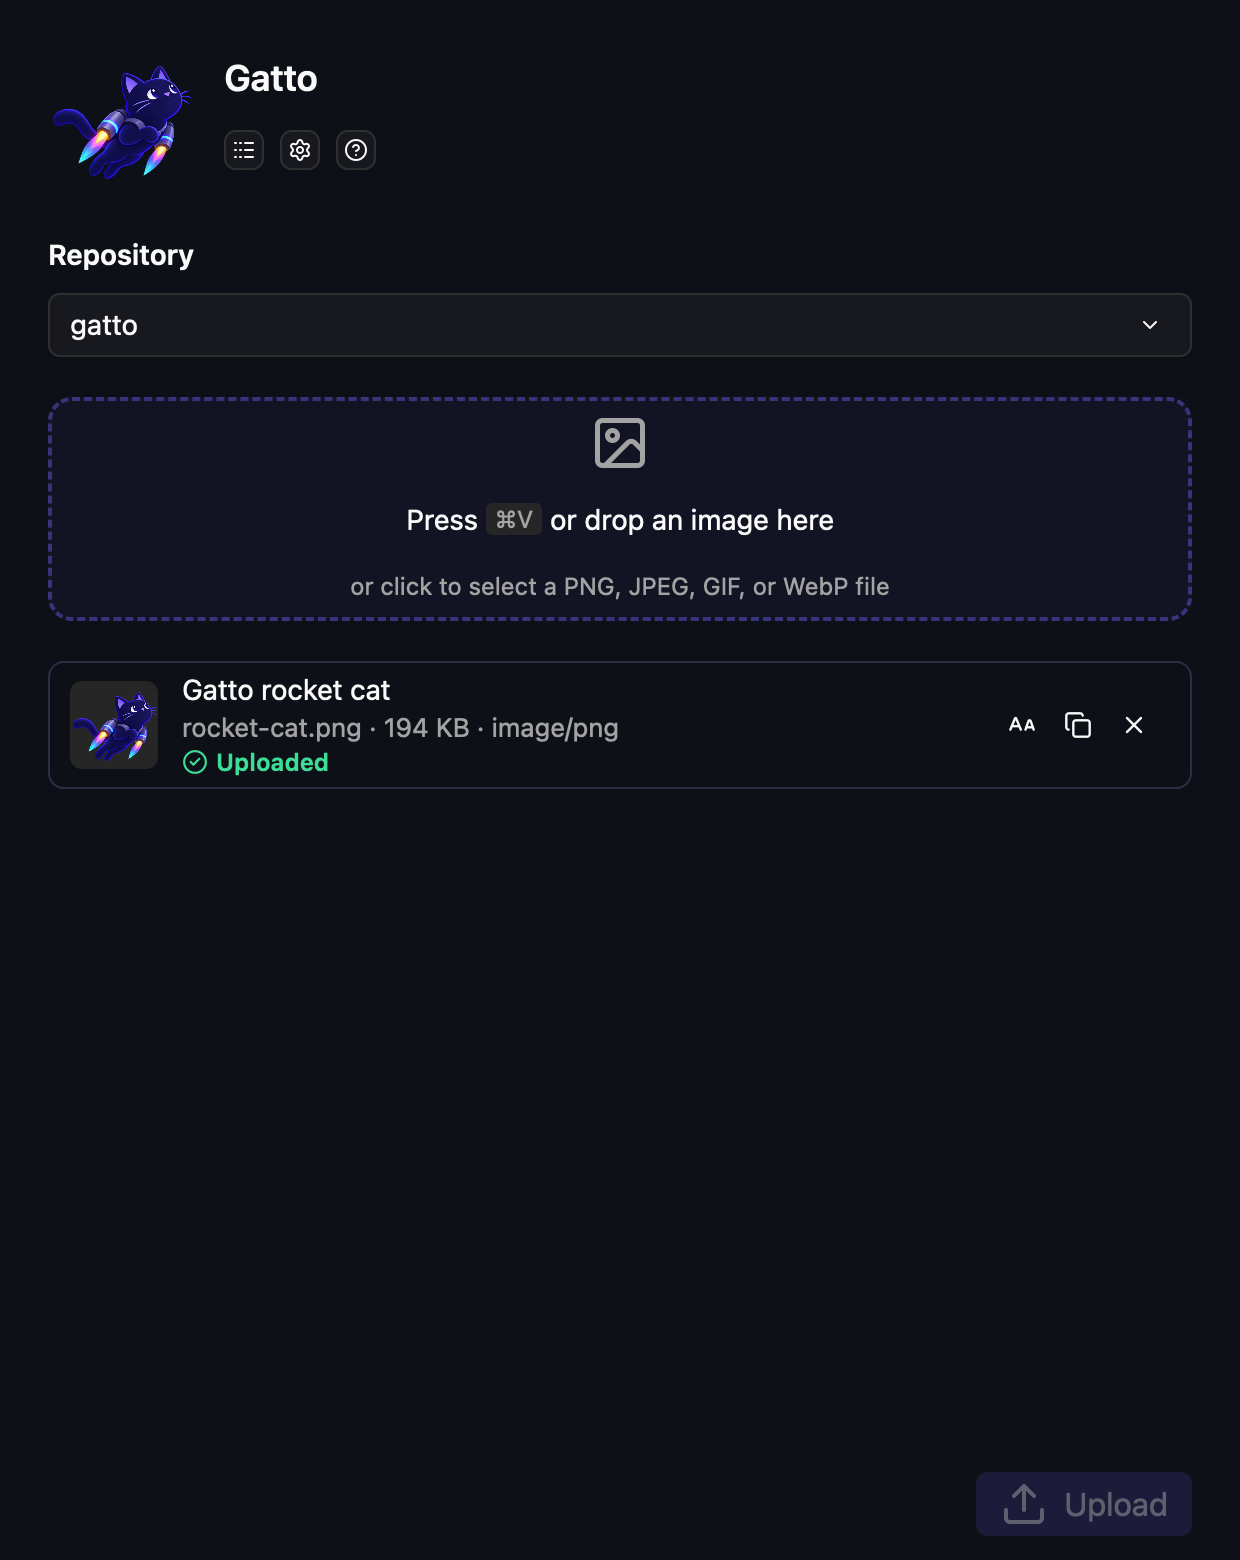
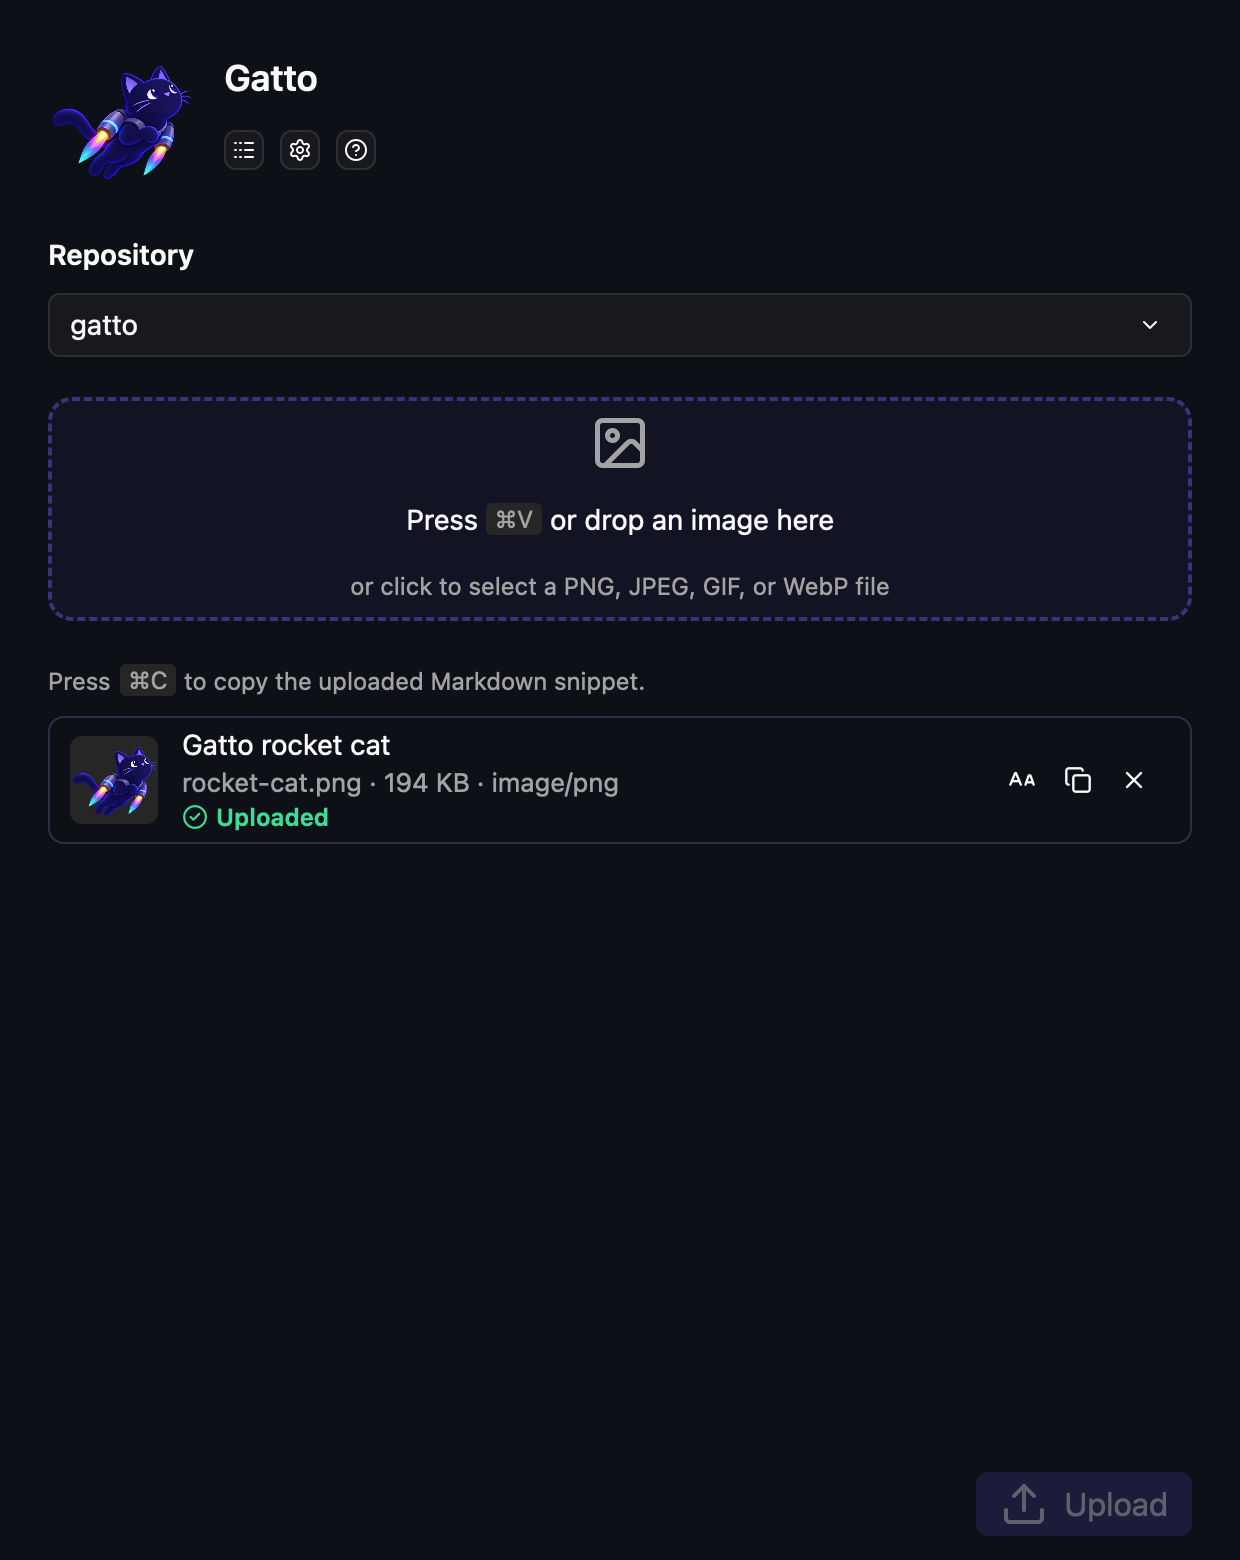
feat: update version to 0.8.2 and change Markdown copy shortcut to Command+C

Changed region(s): [[0.0306, 0.4308, 0.521, 0.5538], [0.8581, 0.4615, 0.9194, 0.5231]]

diff --git a/src/app.rs b/src/app.rs
@@ -2611,25 +2611,24 @@ impl UploaderApp {
                         ),
                 )
             })
-            .when(
-                self.upload_result
-                    .as_ref()
-                    .is_some_and(|result| result.images.len() > 1),
-                |list| {
-                    list.child(
-                        h_flex()
-                            .items_center()
-                            .gap_1()
-                            .text_xs()
-                            .text_color(cx.theme().muted_foreground)
-                            .child("Press")
-                            .child(Kbd::new(
-                                Keystroke::parse("cmd-shift-m").expect("valid shortcut"),
-                            ))
-                            .child("to copy all uploaded Markdown snippets."),
-                    )
-                },
-            )
+            .when_some(self.upload_result.as_ref(), |list, result| {
+                list.child(
+                    h_flex()
+                        .id("upload-markdown-copy-hint")
+                        .debug_selector(|| "upload-markdown-copy-hint".into())
+                        .items_center()
+                        .gap_1()
+                        .text_xs()
+                        .text_color(cx.theme().muted_foreground)
+                        .child("Press")
+                        .child(Kbd::new(Keystroke::parse("cmd-c").expect("valid shortcut")))
+                        .child(if result.images.len() == 1 {
+                            "to copy the uploaded Markdown snippet."
+                        } else {
+                            "to copy all uploaded Markdown snippets."
+                        }),
+                )
+            })
             .children(attachments)
     }
 
@@ -3017,7 +3016,7 @@ pub fn init_keybindings(cx: &mut App) {
     cx.bind_keys([
         KeyBinding::new("cmd-v", PasteImage, Some(KEY_CONTEXT)),
         KeyBinding::new("ctrl-v", PasteImage, Some(KEY_CONTEXT)),
-        KeyBinding::new("cmd-shift-m", CopyUploadMarkdown, Some(KEY_CONTEXT)),
+        KeyBinding::new("cmd-c", CopyUploadMarkdown, Some(KEY_CONTEXT)),
         KeyBinding::new("b", SwitchToBulkUpload, Some("Dialog")),
     ]);
 }
@@ -3045,6 +3044,84 @@ mod tests {
             result.markdown(),
             "![first](https://example.com/first)\n![second](https://example.com/second)"
         );
+    }
+
+    #[gpui_kit::test]
+    fn markdown_copy_hint_and_shortcut_work_for_single_and_bulk_uploads(cx: &mut TestAppContext) {
+        cx.update(|cx| {
+            gpui_kit::init(cx);
+            init_keybindings(cx);
+        });
+        let captured = Rc::new(std::cell::RefCell::new(None));
+        let capture = captured.clone();
+        let (_, cx) = cx.add_window_view(move |window, cx| {
+            let view = cx.new(|cx| {
+                let mut app = UploaderApp::with_settings(
+                    window,
+                    Diagnostics::new(),
+                    AppControllers::default(),
+                    AppSettings {
+                        organization: Some("acme-labs".into()),
+                        ..AppSettings::default()
+                    },
+                    None,
+                    false,
+                    cx,
+                );
+                app.load_state = LoadState::Ready;
+                app
+            });
+            *capture.borrow_mut() = Some(view.clone());
+            gpui_kit::base::Root::new(view, window, cx)
+        });
+        let view = captured.borrow().clone().unwrap();
+        cx.update(|window, cx| window.draw(cx).clear(cx));
+        assert!(cx.debug_bounds("upload-markdown-copy-hint").is_none());
+
+        let image_path =
+            PathBuf::from(env!("CARGO_MANIFEST_DIR")).join("packaging/rocket-cat-transparent.png");
+        for bulk_upload in [false, true] {
+            let markdown = "![first](https://example.com/first)";
+            let expected = if bulk_upload {
+                format!("{markdown}\n![second](https://example.com/second)")
+            } else {
+                markdown.to_owned()
+            };
+            cx.update(|window, cx| {
+                view.update(cx, |app, cx| {
+                    app.bulk_upload = bulk_upload;
+                    app.staged_images.clear();
+                    let mut image = StagedImage::from_path(image_path.clone()).unwrap();
+                    image.id = 1;
+                    image.description = "first".into();
+                    image.upload_state = AttachmentUploadState::Uploaded {
+                        url: "https://example.com/first".into(),
+                    };
+                    app.staged_images.push(image);
+                    if bulk_upload {
+                        let mut image = StagedImage::from_path(image_path.clone()).unwrap();
+                        image.id = 2;
+                        image.description = "second".into();
+                        image.upload_state = AttachmentUploadState::Uploaded {
+                            url: "https://example.com/second".into(),
+                        };
+                        app.staged_images.push(image);
+                    }
+                    app.sync_upload_result();
+                    app.focus_handle.focus(window, cx);
+                    cx.notify();
+                });
+                window.draw(cx).clear(cx);
+            });
+            assert!(cx.debug_bounds("upload-markdown-copy-hint").is_some());
+            cx.simulate_keystrokes("cmd-c");
+            cx.update(|_, cx| {
+                assert_eq!(
+                    cx.read_from_clipboard().and_then(|item| item.text()),
+                    Some(expected.clone()),
+                );
+            });
+        }
     }
 
     #[gpui_kit::test]

diff --git a/docs/WALKTHROUGH.md b/docs/WALKTHROUGH.md
@@ -63,7 +63,10 @@ repository, falling back to the alphabetically first pinned repository.
 
 After at least one upload succeeds, the uploader supports this keyboard action:
 
-- **Command+Shift+M** copies every uploaded Markdown image snippet, separated by newlines.
+- **Command+C** copies every uploaded Markdown image snippet, separated by newlines.
+
+For a single upload, it copies just that image's Markdown snippet. A shortcut hint appears after
+at least one upload succeeds, in both single-image and bulk upload mode.
 
 This shortcut acts on completed uploads in the open window. The optional global Quick Copy
 shortcut is different: it reads a new image from the clipboard and performs a background upload.

diff --git a/README.md b/README.md
@@ -167,8 +167,9 @@ action, Quick Copy requires an organization and at least one pinned repository.
 Normal uploads do not change the clipboard. An uploaded attachment's copy button copies a value such as
 `![screenshot.png](https://github.com/user-attachments/assets/…)`.
 
-On the uploader screen, press **Command+Shift+M** to copy all uploaded Markdown image snippets.
+On the uploader screen, press **Command+C** to copy all uploaded Markdown image snippets.
 This shortcut does nothing until an upload result is available.
+It also works for a single image, and a shortcut hint appears after any successful upload.
 
 ## App Preferences
 

diff --git a/CHANGELOG.md b/CHANGELOG.md
@@ -7,6 +7,13 @@ and this project follows [Semantic Versioning](https://semver.org/spec/v2.0.0.ht
 
 ## [Unreleased]
 
+## [0.8.2] - 2026-10-10
+
+### Changed
+
+- Changed the Markdown copy shortcut from Command+Shift+M to Command+C for single and bulk uploads.
+- Show the Markdown copy shortcut hint after any successful upload, including a single image.
+
 ## [0.8.1] - 2026-10-10
 
 ### Changed
